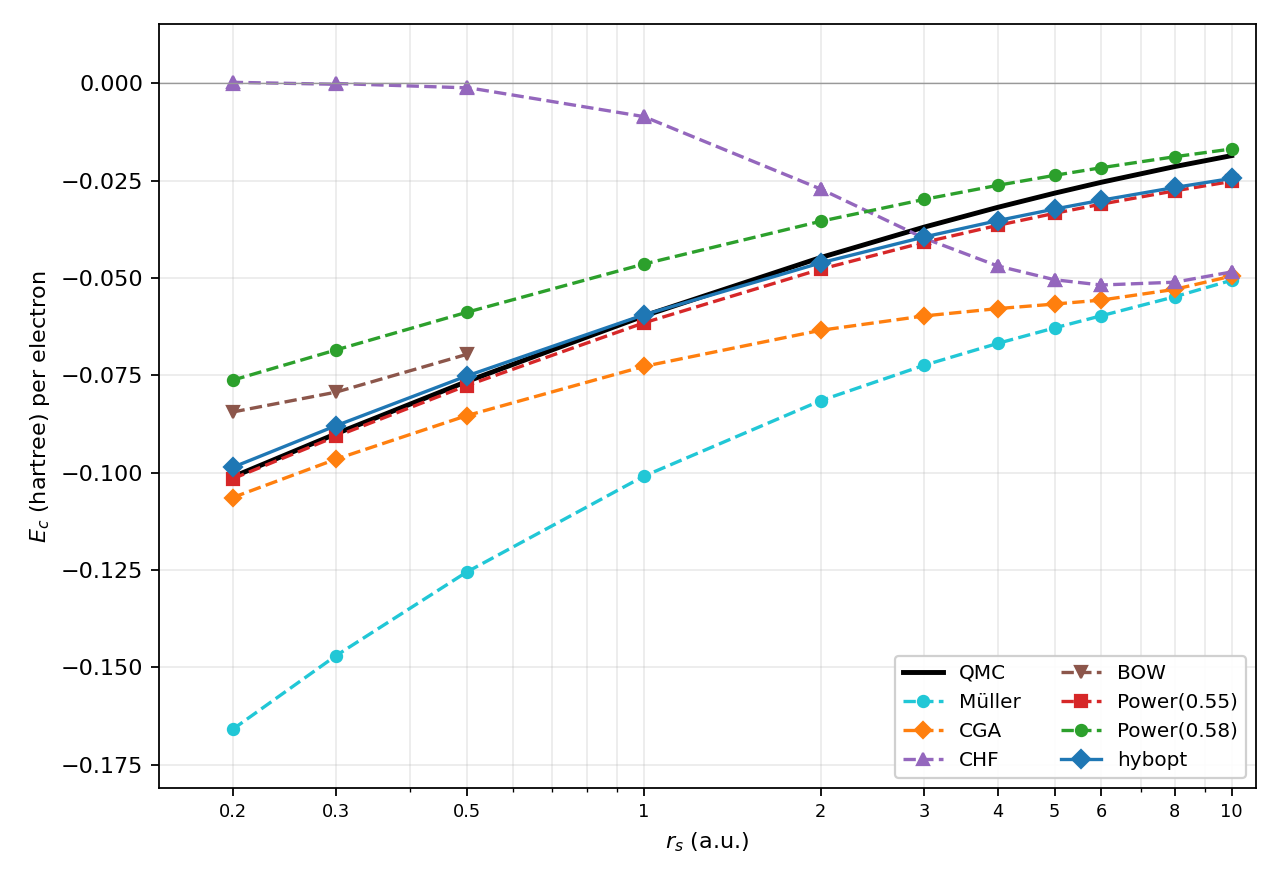
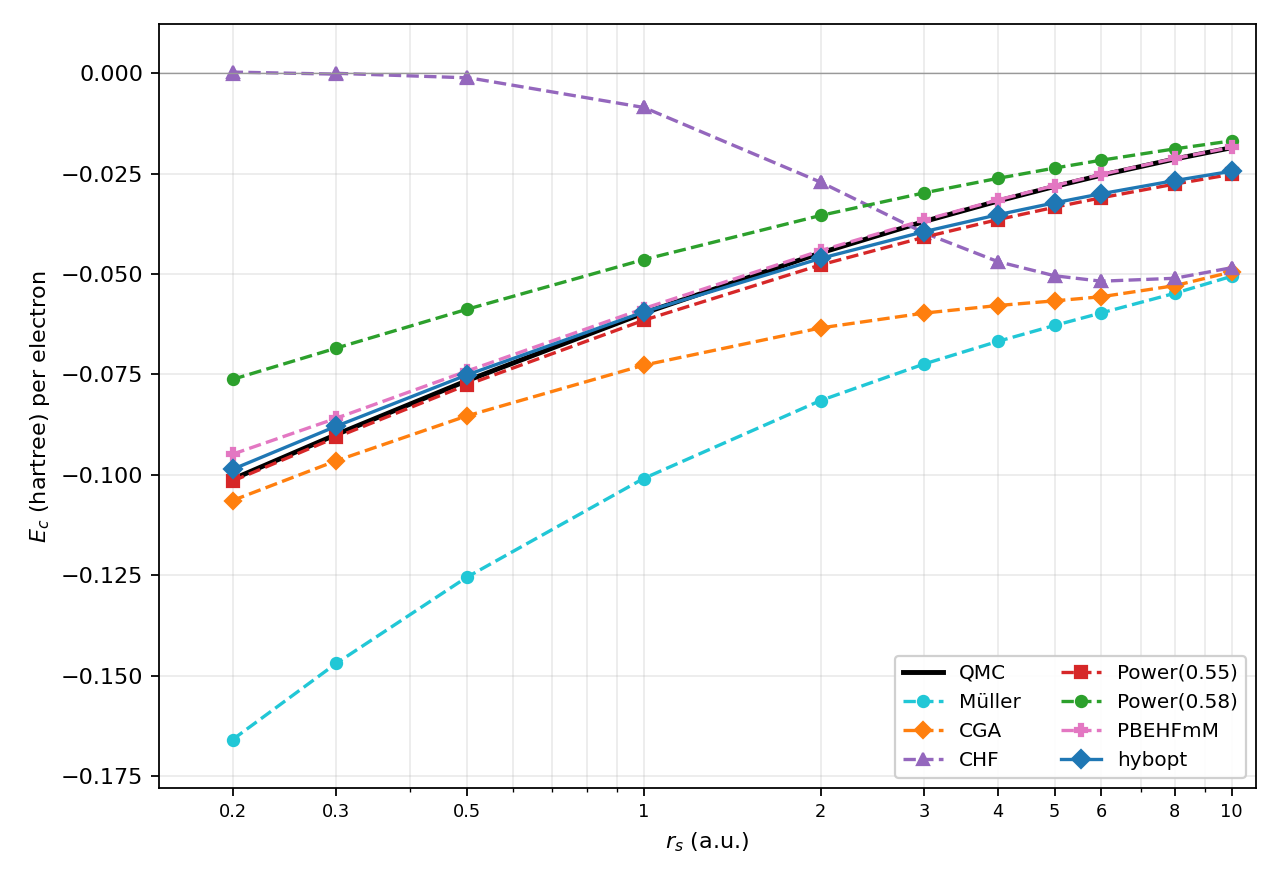
Add PBEHFmM functional and update plotting scripts
Introduced the PBEHFmM functional to the RDMFT framework, enhancing the functional options available. Updated the Makefile to include this new functional and modified plotting scripts to support additional output for correlation energy analysis. New data files for PBEHFmM results have been added, along with enhancements to the plotting capabilities to filter results based on r_s values.

diff --git a/scripts/plot_results.py b/scripts/plot_results.py
@@ -2,7 +2,7 @@
 """Plot RDMFT correlation energies vs rs from per-functional TSVs.
 
 Reads ``*.tsv`` files under ``--in`` and overlays the PW92 QMC reference with
-Müller, CGA, CHF, BOW, hybopt, Power(0.55/0.58) (see ``plot_common.WANTED_SERIES``).
+Müller, CGA, CHF, hybopt, Power(0.55/0.58), PBEHFmM (see ``plot_common.WANTED_SERIES``).
 Only rows with ``converged == 1`` are plotted (non-converged SCF points are dropped).
 The directory layout matches the rdmft_heg driver:
 
@@ -52,22 +52,29 @@ def _fmt_rs_tick(rs: float) -> str:
     return s if s else str(r)
 
 
-def apply_rs_ticks(ax, series: dict, qmc_rs: list[float]) -> None:
-    """Label every distinct r_s from data on the (log) x-axis; span 0.15–10."""
+def apply_rs_ticks(
+    ax,
+    series: dict,
+    qmc_rs: list[float],
+    *,
+    xlim: tuple[float, float] | None = None,
+) -> None:
+    """Label every distinct r_s from data on the (log) x-axis."""
     tick_vals = {float(r) for r in qmc_rs}
     for pts in series.values():
         for r, _ in pts:
             tick_vals.add(float(r))
     ticks = sorted(tick_vals)
+    x0, x1 = xlim if xlim is not None else (0.15, 11.0)
     if len(ticks) < 2:
-        ax.set_xlim(0.15, 11.0)
+        ax.set_xlim(x0, x1)
         return
     ax.set_xticks(ticks)
     ax.set_xticklabels([_fmt_rs_tick(t) for t in ticks])
     ax.tick_params(axis="x", which="major", labelsize=8)
     for lab in ax.get_xticklabels():
         lab.set_horizontalalignment("center")
-    ax.set_xlim(0.15, 11.0)
+    ax.set_xlim(x0, x1)
 
 
 def parse_tsv(path: Path):
@@ -117,13 +124,31 @@ def main():
                          "(or a single .tsv).  Default: data")
     ap.add_argument("--out", dest="out_path",
                     default="figures/correlation_energy.png")
+    ap.add_argument(
+        "--rs-min",
+        type=float,
+        default=None,
+        help="Only plot points with r_s >= this value (zoom).",
+    )
+    ap.add_argument(
+        "--rs-max",
+        type=float,
+        default=None,
+        help="Only plot points with r_s <= this value.",
+    )
     args = ap.parse_args()
 
     in_path = Path(args.in_path)
+    rs_min = args.rs_min
+    rs_max = args.rs_max
 
     series: dict[str, list[tuple[float, float]]] = {}
     qmc_pairs: list[tuple[float, float]] = []
     for rs, fn, ec, ecq in collect_rows(in_path):
+        if rs_min is not None and rs < rs_min:
+            continue
+        if rs_max is not None and rs > rs_max:
+            continue
         key = legend_key_for_subset(fn)
         if key is None:
             continue
@@ -133,6 +158,7 @@ def main():
     if not qmc_pairs:
         raise SystemExit(
             f"No usable data points for plotted functionals in {in_path}"
+            + (f" with r_s filter [{rs_min}, {rs_max}]" if rs_min or rs_max else "")
         )
 
     qmc = sorted(set(qmc_pairs))
@@ -168,7 +194,15 @@ def main():
             markersize=6 if name == "hybopt" else 5,
         )
 
-    apply_rs_ticks(ax, series, qmc_rs)
+    # X limits: pad slightly around filtered data (or full default span).
+    if rs_min is not None or rs_max is not None:
+        lo_x = min(qmc_rs)
+        hi_x = max(qmc_rs)
+        pad_x = max(0.05 * (hi_x - lo_x), 0.05 * lo_x)
+        xlim = (max(0.05, lo_x - pad_x), hi_x + pad_x)
+    else:
+        xlim = (0.15, 11.0)
+    apply_rs_ticks(ax, series, qmc_rs, xlim=xlim)
     ax.set_xlabel(r"$r_s$ (a.u.)")
     ax.set_ylabel(r"$E_c$ (hartree) per electron ")
     ax.axhline(0, color="0.6", linewidth=0.6, linestyle="-")
@@ -178,7 +212,7 @@ def main():
     if ec_vals:
         lo, hi = min(ec_vals), max(ec_vals)
         span = max(hi - lo, 1e-6)
-        pad = 0.06 * span + 0.005
+        pad = 0.06 * span + 0.002
         ax.set_ylim(lo - pad, hi + pad)
     else:
         ax.set_ylim(-0.20, 0.02)

diff --git a/include/Functional.hpp b/include/Functional.hpp
@@ -8,6 +8,9 @@
 #include <string>
 #include <utility>
 
+#include "HEG.hpp"
+#include "QMC.hpp"
+
 namespace rdmft {
 
 // Base class for RDMFT exchange-correlation functionals applied to the HEG.
@@ -52,6 +55,11 @@ public:
     virtual double kernel_grad(double ni, double nj) const {
         return df(ni) * f(nj);
     }
+
+    // Optional density-only XC contribution per unit volume (e.g. LDA/PBE
+    // on the uniform gas).  Default zero; does not enter deps_xc (absorbed
+    // into the chemical potential via the density constraint).
+    virtual double density_xc_per_volume(double /*rho*/) const { return 0.0; }
 };
 
 // f(n) = n   ->  Hartree-Fock
@@ -490,6 +498,52 @@ private:
     double alpha_;
 };
 
+// PBE + HF − Müller (HEG): in the uniform gas PBE collapses to LDA
+// (Slater exchange + PW92 correlation).  Occupations are determined by the
+// JK kernel difference
+//
+//     K(n_i, n_j) = n_i n_j - sqrt(n_i n_j)   = K_HF - K_Mueller,
+//
+// while the LDA XC energy density is added as a density-only shift
+// (see ``density_xc_per_volume``).  CLI key: ``PBEHFmM``.
+class PbeHfMuFunctional : public Functional {
+public:
+    std::string name() const override { return "PBEHFmM"; }
+    bool is_factorized() const override { return false; }
+
+    // Unused (non-factorized); Müller-like stubs satisfy the abstract API.
+    double f(double n) const override {
+        return n > 0.0 ? std::sqrt(n) : 0.0;
+    }
+    double df(double n) const override {
+        const double eps = 1.0e-14;
+        return 0.5 / std::sqrt(n > eps ? n : eps);
+    }
+
+    double kernel(double ni, double nj) const override {
+        const double a = (ni > 0.0) ? ni : 0.0;
+        const double b = (nj > 0.0) ? nj : 0.0;
+        return a * b - std::sqrt(a) * std::sqrt(b);
+    }
+    double kernel_grad(double ni, double nj) const override {
+        const double eps = 1.0e-14;
+        const double a = (ni > 0.0) ? ni : 0.0;
+        const double b = (nj > 0.0) ? nj : 0.0;
+        const double sa = std::sqrt(a > eps ? a : eps);
+        const double sb = std::sqrt(b);
+        return b - 0.5 * sb / sa;
+    }
+
+    // LDA XC/V = rho * (e_x^Slater(rs) + e_c^PW92(rs)); PBE ≡ LDA for ∇ρ = 0.
+    double density_xc_per_volume(double rho) const override {
+        if (!(rho > 0.0) || !std::isfinite(rho)) return 0.0;
+        constexpr double pi = M_PI;
+        const double rs = std::cbrt(3.0 / (4.0 * pi * rho));
+        return rho * (HEG::exchange_per_electron_HF(rs)
+                      + PW92::ec_per_electron(rs));
+    }
+};
+
 
 // BOW functional [T. Baldsiefen, A. Cangi, F. G. Eich, and E. K. U. Gross,
 // Phys. Rev. A 96, 062508 (2017), Appendix C].  The pair kernel is
@@ -760,6 +814,7 @@ inline std::unique_ptr<Functional> make_functional(const std::string& key,
     if (key == "Power")   return std::make_unique<PowerFunctional>(alpha);
     if (key == "BOW")     return std::make_unique<BOWFunctional>();
     if (key == "SymBow")  return std::make_unique<SymBOWFunctional>();
+    if (key == "PBEHFmM") return std::make_unique<PbeHfMuFunctional>();
     if (key == "BBC1")    return std::make_unique<BBC1Functional>();
     if (key == "BBC3")   return std::make_unique<BBC3Functional>();
     if (key == "GEO")     return std::make_unique<GEOFunctional>();

diff --git a/tests/test_boundaries.cpp b/tests/test_boundaries.cpp
@@ -108,6 +108,37 @@ int main() {
         [] { (void)OptGeoFunctional(-1.0, 2.0); },
         "OptGeo should reject negative parameters");
 
+    {
+        PbeHfMuFunctional pbe;
+        if (std::abs(pbe.kernel(1.0, 1.0)) > 1.0e-14) {
+            std::cerr << "FAIL: PBEHFmM K(1,1) should be 0\n";
+            ++failures;
+        }
+        if (std::abs(pbe.kernel(0.0, 0.7)) > 1.0e-14) {
+            std::cerr << "FAIL: PBEHFmM K(0,n) should be 0\n";
+            ++failures;
+        }
+        const double ni = 0.4, nj = 0.7;
+        const double h = 1.0e-8;
+        const double fd = (pbe.kernel(ni + h, nj) - pbe.kernel(ni - h, nj)) / (2.0 * h);
+        if (std::abs(pbe.kernel_grad(ni, nj) - fd) > 1.0e-6) {
+            std::cerr << "FAIL: PBEHFmM kernel_grad vs central difference\n";
+            ++failures;
+        }
+        const double rs = 1.0;
+        const double rho = HEG::density(rs);
+        const double expected = rho * (HEG::exchange_per_electron_HF(rs)
+                                       + PW92::ec_per_electron(rs));
+        if (std::abs(pbe.density_xc_per_volume(rho) - expected) > 1.0e-12) {
+            std::cerr << "FAIL: PBEHFmM density_xc_per_volume at rs=1\n";
+            ++failures;
+        }
+        if (pbe.name() != "PBEHFmM") {
+            std::cerr << "FAIL: PBEHFmM name()\n";
+            ++failures;
+        }
+    }
+
     if (failures != 0) {
         std::cerr << failures << " failure(s)\n";
         return 1;

diff --git a/include/Solver.hpp b/include/Solver.hpp
@@ -539,6 +539,7 @@ solve_rdmft(double rs,
     const BBC1Functional*   bbc1      = dynamic_cast<const BBC1Functional*>(&F);
     const BBC3Functional*   bbc3      = dynamic_cast<const BBC3Functional*>(&F);
     const BOWFunctional*    bow       = dynamic_cast<const BOWFunctional*>(&F);
+    const PbeHfMuFunctional* pbehfmu  = dynamic_cast<const PbeHfMuFunctional*>(&F);
 
     double alpha = 1.0;
     if (pf)        alpha = pf->alpha();
@@ -601,7 +602,7 @@ solve_rdmft(double rs,
     const bool needs_multistart = additive || (geo != nullptr)
                                   || (optgeo != nullptr) || (hybopt != nullptr)
                                   || (bbc1 != nullptr) || (bbc3 != nullptr)
-                                  || (bow != nullptr);
+                                  || (bow != nullptr) || (pbehfmu != nullptr);
     const bool uniform_init = opt.init_uniform_n.has_value();
     const std::vector<std::pair<bool, double>> starts = uniform_init
         ? std::vector<std::pair<bool, double>>{{true, 0.0}}

diff --git a/scripts/plot_common.py b/scripts/plot_common.py
@@ -1,7 +1,7 @@
 """Shared curve list and styles for correlation-energy and n(k) figures.
 
 ``WANTED_SERIES`` / ``WANTED_SET`` define which functionals appear in both plots
-(Müller, CGA, CHF, BOW, Power curves, hybopt = HybOpt HF/Power mix).
+(Müller, CGA, CHF, Power curves, hybopt, PBEHFmM).
 """
 
 from __future__ import annotations
@@ -12,9 +12,9 @@ WANTED_SERIES = (
     "Mueller",
     "CGA",
     "CHF",
-    "BOW",
     "Power(0.55)",
     "Power(0.58)",
+    "PBEHFmM",
     "hybopt",
 )
 
@@ -31,6 +31,7 @@ SUBSET_STYLE: dict[str, tuple[str | None, str, str | None]] = {
     "CHF": ("#9467bd", "--", "^"),
     "BOW": ("#8c564b", "--", "v"),
     "optGeo": ("#006400", "--", "h"),
+    "PBEHFmM": ("#e377c2", "--", "P"),
     # Solid blue + diamonds + drawn last (stands out vs dashed RDMFT curves).
     "hybopt": ("#1f77b4", "-", "D"),
     "Power(0.55)": ("#d62728", "--", "s"),

diff --git a/src/main.cpp b/src/main.cpp
@@ -71,7 +71,7 @@ void print_help() {
         "                       (HF, Mueller, GU, CGA, CHF, BBC1, BBC3, GEO,\n"
         "                        OptGeo@<w>;<k>, HybOpt@lambda;alpha, Power@<alpha>,\n"
         "                        Beta@<beta>, BOW or BOW@alpha, SymBow or SymBow@alpha,\n"
-        "                        NN@<path/to/model.json>)\n"
+        "                        PBEHFmM, NN@<path/to/model.json>)\n"
         "                       OptGeo: HF + w*(2*sigmoid(k*x)-1), x=(n_i-1/2)^2(n_j-1/2)^2; w,k >= 0.\n"
         "                       HybOpt: (1-lambda) HF + lambda Power(alpha); two floats (one ';').\n"
         "                       Shell: quote keys that contain ';' (e.g. --funcs 'HybOpt@0.4;0.56').\n"

diff --git a/include/Energy.hpp b/include/Energy.hpp
@@ -134,12 +134,15 @@ struct EnergyEvaluator {
 
         // E_xc = -(1/(2 pi^3)) * \sum_i w_i * k_i * V_i,
         // where V_i already encodes K(n_i, n_j) for both arguments.
+        // Optional density-only XC (LDA/PBE) is added after the JK sum.
         auto V = V_inner(n, g, W, F);
         double s = 0.0;
         for (std::size_t i = 0; i < N; ++i) {
             s += g.w[i] * g.k[i] * V[i];
         }
-        return -s / (2.0 * pi * pi * pi);
+        const double jk = -s / (2.0 * pi * pi * pi);
+        const double rho = density(n, g);
+        return jk + F.density_xc_per_volume(rho);
     }
 
     // Pseudo orbital energy epsilon_i = dE/dn_i (used in Euler-Lagrange).

diff --git a/scripts/optimize_nk_mix_gz.py b/scripts/optimize_nk_mix_gz.py
@@ -51,7 +51,6 @@ CANDIDATE_KEYS = (
     "Mueller",
     "CGA",
     "CHF",
-    "BOW",
     "Power(0.55)",
     "Power(0.58)",
     "hybopt",
